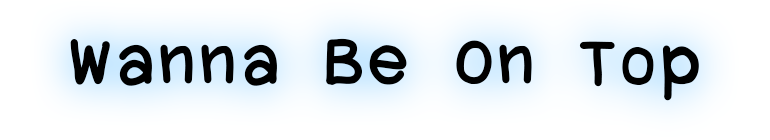
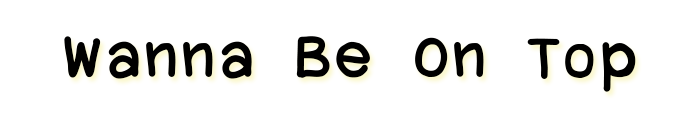
Edit nameTag.

Changed region(s): [[0.06, 0.2126, 0.54, 0.685], [0.75, 0.2598, 0.93, 0.7559], [0.57, 0.2362, 0.72, 0.6378]]

diff --git a/core/src/com/wannabe/ontop/MapRenderer.java b/core/src/com/wannabe/ontop/MapRenderer.java
@@ -10,10 +10,7 @@ public class MapRenderer {
     private Texture groundImage;
     private Texture grassImage;
     private Texture skyImage;
-	private Texture cloudOneImg;
-	private Texture cloudTwoImg;
-    
-    public MapRenderer(SpriteBatch batch, Map maze) {
+	public MapRenderer(SpriteBatch batch, Map maze) {
         this.map = map;
         this.batch = batch;
         
@@ -22,8 +19,8 @@ public class MapRenderer {
         groundImage = new Texture("grassCenter.png");
         grassImage = new Texture("grassMid.png");
         skyImage = new Texture("bg.png");
-    	cloudOneImg = new Texture("cloud1.png");
-    	cloudTwoImg = new Texture("cloud2.png");
+    	new Texture("cloud1.png");
+    	new Texture("cloud2.png");
         
     }
  

diff --git a/core/src/com/wannabe/ontop/GameScreen.java b/core/src/com/wannabe/ontop/GameScreen.java
@@ -9,7 +9,6 @@ import com.badlogic.gdx.math.Vector2;
 
 public class GameScreen extends ScreenAdapter {
 	
-	private WannaBeOnTop wannaGame;
 	private Player playerOne;
 	private Player playerTwo;
 	private Player cloudOne;
@@ -22,8 +21,6 @@ public class GameScreen extends ScreenAdapter {
 	private int cloudTwoDir = Player.DIRECTION_LEFT;
 	
 	public GameScreen(WannaBeOnTop wannaGame) {
-		this.wannaGame = wannaGame;
-		
 		world = new World(wannaGame);
 		worldRenderer = new WorldRenderer(wannaGame, world);
 		

diff --git a/core/src/com/wannabe/ontop/WorldRenderer.java b/core/src/com/wannabe/ontop/WorldRenderer.java
@@ -59,7 +59,7 @@ public class WorldRenderer {
 	        batch.draw(startTag, 210, 410);
 	        batch.draw(cloudOneImg, posCloudOne.x, posCloudOne.y);
 	        batch.draw(cloudTwoImg, posCloudTwo.x, posCloudTwo.y);
-	        batch.draw(nameTag, 35, 120);
+	        batch.draw(nameTag, 70, 120);
 	        batch.end();
     	} 
     	
